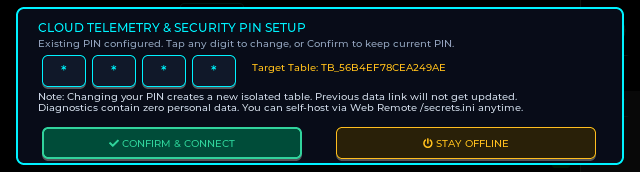
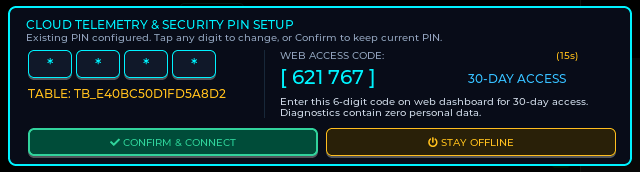
docs: update showcase GIFs and PNGs for two-column TOTP modal and radio stream quality telemetry

diff --git a/scripts/update_readme_assets.py b/scripts/update_readme_assets.py
@@ -1,0 +1,125 @@
+import os
+import sys
+import time
+import urllib.request
+from PIL import Image
+
+BASE_DIR = r"c:\Users\rahul\OpenCode\TuneBar"
+DOC_DIR = os.path.join(BASE_DIR, "document")
+SCRATCH_DIR = os.path.join(BASE_DIR, "scripts", "temp_captures")
+DEVICE_URL = "http://192.168.3.4"
+
+def http_get(path):
+    url = f"{DEVICE_URL}{path}"
+    req = urllib.request.Request(url)
+    with urllib.request.urlopen(req, timeout=10) as resp:
+        return resp.read()
+
+def http_post(path):
+    url = f"{DEVICE_URL}{path}"
+    req = urllib.request.Request(url, data=b"")
+    with urllib.request.urlopen(req, timeout=10) as resp:
+        return resp.read()
+
+def capture_screen(out_path):
+    http_get("/api/screen?action=radio")
+    time.sleep(0.4)
+    data = http_get("/api/screenshot")
+    with open(out_path, "wb") as f:
+        f.write(data)
+    print(f"Captured: {out_path}")
+
+def optimize_png(bmp_path, png_path):
+    im = Image.open(bmp_path)
+    im_quant = im.convert('P', palette=Image.ADAPTIVE, colors=256)
+    im_quant.save(png_path, optimize=True)
+    size = os.path.getsize(png_path)
+    print(f"Saved {os.path.basename(png_path)} ({size} bytes)")
+    return im_quant
+
+def make_gif(frames, durations, out_path):
+    palette_frames = []
+    for f in frames:
+        if isinstance(f, str):
+            im = Image.open(f)
+        else:
+            im = f
+        im_p = im.convert('P', palette=Image.ADAPTIVE, colors=128)
+        palette_frames.append(im_p)
+
+    palette_frames[0].save(
+        out_path,
+        save_all=True,
+        append_images=palette_frames[1:],
+        duration=durations,
+        loop=0,
+        optimize=True
+    )
+    size = os.path.getsize(out_path)
+    print(f"Generated {os.path.basename(out_path)} ({size} bytes, {len(frames)} frames)")
+
+def main():
+    print("=== 1. Building app_security.gif and Security PNGs ===")
+    masked_bmp = os.path.join(SCRATCH_DIR, "screen_consent_masked.bmp")
+    unmasked_bmp = os.path.join(SCRATCH_DIR, "screen_consent_unmasked.bmp")
+
+    if os.path.exists(masked_bmp) and os.path.exists(unmasked_bmp):
+        optimize_png(masked_bmp, os.path.join(DOC_DIR, "screen_consent_modal.png"))
+        optimize_png(unmasked_bmp, os.path.join(DOC_DIR, "screen_pin_setup.png"))
+
+        sec_frames = [
+            Image.open(masked_bmp),
+            Image.open(unmasked_bmp)
+        ]
+        make_gif(sec_frames, [2500, 2500], os.path.join(DOC_DIR, "app_security.gif"))
+    else:
+        print("Error: masked or unmasked BMP not found in scratch dir!")
+
+    print("\n=== 2. Capturing Radio Stations with Stream Quality Telemetry ===")
+    # 2.1 Hindi Station
+    print("Capturing Hindi station...")
+    http_get("/api/radio/lang?set=hi")
+    time.sleep(1.0)
+    http_post("/api/radio/play?idx=0")
+    time.sleep(3.5) # Allow buffer and bitrate calculation to populate
+    hi_bmp = os.path.join(SCRATCH_DIR, "screen_radio_player_hi.bmp")
+    capture_screen(hi_bmp)
+
+    # 2.2 English Station
+    print("Capturing English station...")
+    http_get("/api/radio/lang?set=en")
+    time.sleep(1.0)
+    http_post("/api/radio/play?idx=0")
+    time.sleep(3.5)
+    en_bmp = os.path.join(SCRATCH_DIR, "screen_radio_player_en.bmp")
+    capture_screen(en_bmp)
+
+    # 2.3 German Station
+    print("Capturing German station...")
+    http_get("/api/radio/lang?set=de")
+    time.sleep(1.0)
+    http_post("/api/radio/play?idx=0")
+    time.sleep(3.5)
+    de_bmp = os.path.join(SCRATCH_DIR, "screen_radio_player_de.bmp")
+    capture_screen(de_bmp)
+
+    # Restore Hindi radio
+    http_get("/api/radio/lang?set=hi")
+    http_post("/api/radio/play?idx=0")
+
+    # Save PNGs and Radio GIF
+    optimize_png(hi_bmp, os.path.join(DOC_DIR, "screen_radio_player_hi.png"))
+    optimize_png(en_bmp, os.path.join(DOC_DIR, "screen_radio_player_en.png"))
+    optimize_png(de_bmp, os.path.join(DOC_DIR, "screen_radio_player_de.png"))
+
+    radio_frames = [
+        Image.open(hi_bmp),
+        Image.open(en_bmp),
+        Image.open(de_bmp)
+    ]
+    make_gif(radio_frames, [2500, 2500, 2500], os.path.join(DOC_DIR, "app_radio.gif"))
+
+    print("\nShowcase assets update complete!")
+
+if __name__ == "__main__":
+    main()
